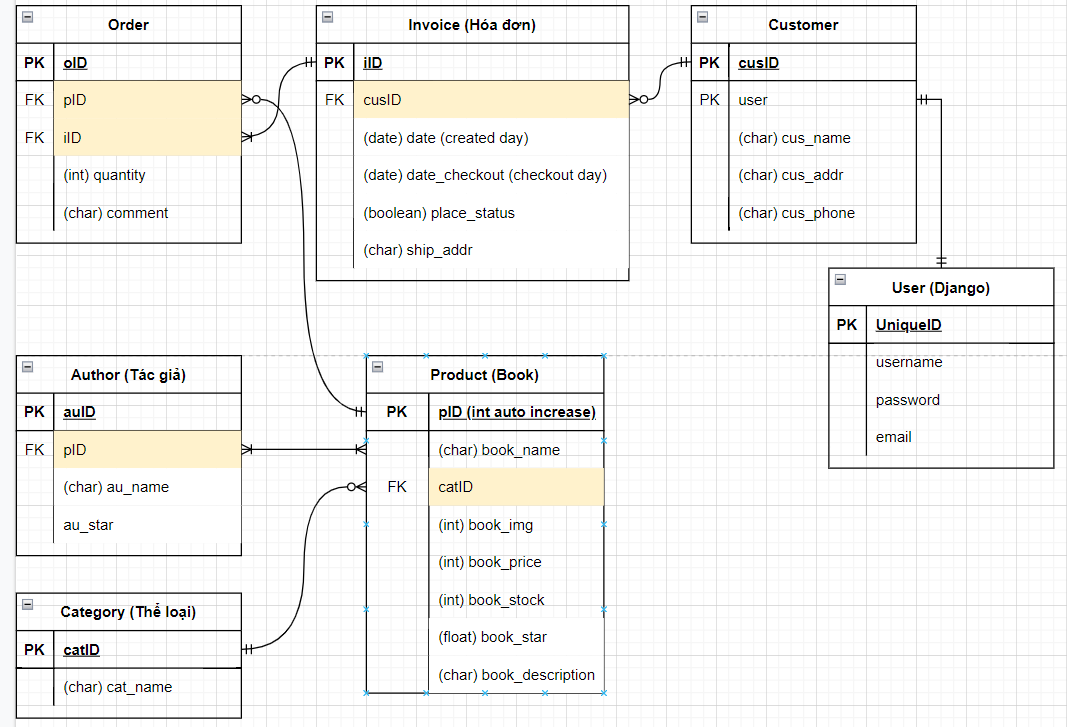
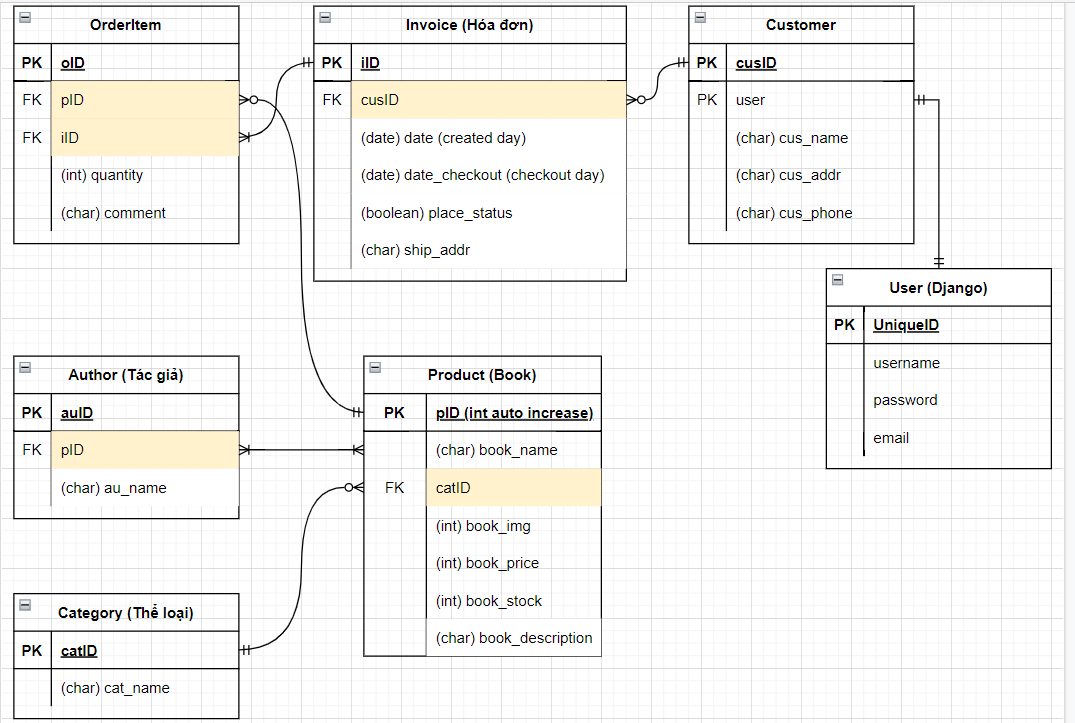
update name models
Order -> OrderItem

diff --git a/cntt_project/store/views.py b/cntt_project/store/views.py
@@ -97,7 +97,7 @@ def product_detail_view(request, pID):
         # when user not login
         invoice = {'get_total_item': 0, 'get_total_price': 0}
 
-    orders = Order.objects.filter(pID=pID)
+    orders = OrderItem.objects.filter(pID=pID)
     p = Product.objects.get(pID=pID)
     context = {'p': p, 'invoice': invoice, 'orders': orders}
     return render(request, 'home/product/product_detail.html', context)
@@ -170,7 +170,7 @@ def cart(request):
         customer = request.user.customer
         invoice, created = Invoice.objects.get_or_create(
             cusID=customer, place_status=False)
-        orders = invoice.order_set.all()
+        orders = invoice.orderitem_set.all()
     else:
         # when user not login
         invoice = {'get_total_item': 0, 'get_total_price': 0}
@@ -190,14 +190,14 @@ def add_to_cart(request):
             product = Product.objects.get(pID=pID)
             invoice, created = Invoice.objects.get_or_create(
                 cusID=customer, place_status=False)
-            order, created = Order.objects.get_or_create(
+            order, created = OrderItem.objects.get_or_create(
                 iID=invoice, pID=product)
 
             if order.quantity < product.book_stock:
                 order.quantity = order.quantity + int(add_quantity)
                 order.save()
 
-            orders = invoice.order_set.all()
+            orders = invoice.orderitem_set.all()
             context = {'orders': orders, 'invoice': invoice}
             return redirect('store:home')
             return render(request, 'home/cart/cart.html', context)
@@ -215,7 +215,7 @@ def updateItem(request):
 
     invoice, created = Invoice.objects.get_or_create(
         cusID=customer, place_status=False)
-    orderItem, created = Order.objects.get_or_create(iID=invoice, pID=product)
+    orderItem, created = OrderItem.objects.get_or_create(iID=invoice, pID=product)
 
     if (product.book_stock == 0):
         messages.error(request, "Sách bạn chọn hiện tại đã hết hàng!")
@@ -240,7 +240,7 @@ def checkout(request):
         customer = request.user.customer
         invoice, created = Invoice.objects.get_or_create(
             cusID=customer, place_status=False)
-        orders = invoice.order_set.all()
+        orders = invoice.orderitem_set.all()
     else:
         # when user not login
         invoice = {'get_total_item': 0, 'get_total_price': 0}
@@ -270,7 +270,7 @@ def checkout_info_view(request):
     if request.user.is_authenticated:
         customer = request.user.customer
         invoice = Invoice.objects.filter(cusID=customer, place_status=True)
-        #orders = invoice.order_set.all()
+        #orders = invoice.orderitem_set.all()
     else:
         # when user not login
         invoice = {'get_total_item': 0, 'get_total_price': 0}
@@ -281,7 +281,7 @@ def checkout_info_view(request):
 
 def view_checkout_detail(request, iID):
     invoice = Invoice.objects.get(iID=iID)
-    orders = invoice.order_set.all()
+    orders = invoice.orderitem_set.all()
     context = {'invoice': invoice, 'orders': orders, }
     return render(request, 'home/checkout/checkout_detail.html', context)
 
@@ -289,12 +289,12 @@ def view_checkout_detail(request, iID):
 def order_comment(request, oID):
     if request.method == 'POST':
         try:
-            order = Order.objects.get(oID=oID)
+            order = OrderItem.objects.get(oID=oID)
             order.comment = request.POST['cmt']
             order.save()
 
             invoice = Invoice.objects.get(iID=order.iID.iID)
-            orders = invoice.order_set.all()
+            orders = invoice.orderitem_set.all()
             context = {'invoice': invoice, 'orders': orders, }
             return render(request, 'home/checkout/checkout_detail.html', context)
         except:
@@ -312,7 +312,7 @@ def comment(request):
     print('action: ', action)
     print('oID: ', oID)
 
-    order = Order.objects.get(oID=oID)
+    order = OrderItem.objects.get(oID=oID)
     order.comment = text
     order.save()
 
@@ -378,7 +378,7 @@ return JsonResponse('Đã đặt hàng', safe=False)
 if request.user.is_authenticated:
     customer = request.user.customer
     invoice = Invoice.objects.get(cusID=customer)
-    orders = invoice.order_set.all()
+    orders = invoice.orderitem_set.all()
     print('yeye: ',invoice.iID)
 else:
     # when user not login

diff --git a/cntt_project/store/models.py b/cntt_project/store/models.py
@@ -18,13 +18,12 @@ class Category(models.Model):
 
 class Product(models.Model):
     pID = models.AutoField(primary_key=True)
-    book_name = models.CharField(max_length=50)
+    book_name = models.CharField(max_length=100)
     catID = models.ForeignKey(Category, on_delete=models.CASCADE, null=True)
     book_img = models.ImageField(
-        upload_to='uploads/', height_field=None, width_field=None, max_length=None, null=True,  blank=True)
+        upload_to='uploads/', height_field=None, width_field=None, max_length=None, null=True, blank=True)
     book_price = models.IntegerField(default=0, null=False)
     book_stock = models.IntegerField(default=0, null=False)
-    book_star = models.FloatField(null=True)
     book_description = models.TextField(null=True)
 
     def __str__(self):
@@ -53,7 +52,6 @@ class Author(models.Model):
     auID = models.AutoField(primary_key=True)
     pID = models.ForeignKey(Product, on_delete=models.CASCADE, null=True)
     au_name = models.CharField(max_length=50)
-    au_star = models.FloatField(default=0)
 
     def __str__(self):
         return self.au_name
@@ -93,7 +91,7 @@ class Invoice(models.Model):
         null=True, default=False)  # đã đặt hàng chưa? 0: chưa đặt
     # giao chưa? 0: giao chưa đến
     status = models.BooleanField(null=True, default=False)
-    ship_addr = models.CharField(null=True, max_length=254)
+    ship_addr = models.CharField(null=True, max_length=150)
 
     def __str__(self):
         return str(self.cusID.cus_name)
@@ -111,24 +109,24 @@ class Invoice(models.Model):
 
     @property
     def get_total_item(self):
-        orders = self.order_set.all()
+        orders = self.orderitem_set.all()
         total = sum([i.quantity for i in orders])
         return total
 
     @property
     def get_total_price(self):
-        orders = self.order_set.all()
+        orders = self.orderitem_set.all()
         total = sum([i.get_total for i in orders])
         return total
 
 
-class Order(models.Model):
+class OrderItem(models.Model):
     oID = models.AutoField(primary_key=True)
     pID = models.ForeignKey(Product, on_delete=models.CASCADE, null=False)
     iID = models.ForeignKey(Invoice, on_delete=models.CASCADE, null=True)
-    quantity = models.IntegerField(null=False, default=0)
+    quantity = models.PositiveSmallIntegerField(default=0, null= True)
     # danh gia sp cua khach da mua hang
-    comment = models.TextField(null=True)
+    comment = models.TextField(null=True, max_length=254)
 
     @property
     def get_total(self):

diff --git a/cntt_project/store/migrations/0021_orderitem_alter_invoice_ship_addr_and_more.py b/cntt_project/store/migrations/0021_orderitem_alter_invoice_ship_addr_and_more.py
@@ -1,0 +1,45 @@
+# Generated by Django 4.1.3 on 2022-12-21 11:10
+
+from django.db import migrations, models
+import django.db.models.deletion
+
+
+class Migration(migrations.Migration):
+
+    dependencies = [
+        ('store', '0020_alter_order_quantity'),
+    ]
+
+    operations = [
+        migrations.CreateModel(
+            name='OrderItem',
+            fields=[
+                ('oID', models.AutoField(primary_key=True, serialize=False)),
+                ('quantity', models.PositiveSmallIntegerField(default=0, null=True)),
+                ('comment', models.TextField(max_length=254, null=True)),
+            ],
+        ),
+        migrations.AlterField(
+            model_name='invoice',
+            name='ship_addr',
+            field=models.CharField(max_length=150, null=True),
+        ),
+        migrations.AlterField(
+            model_name='product',
+            name='book_name',
+            field=models.CharField(max_length=100),
+        ),
+        migrations.DeleteModel(
+            name='Order',
+        ),
+        migrations.AddField(
+            model_name='orderitem',
+            name='iID',
+            field=models.ForeignKey(null=True, on_delete=django.db.models.deletion.CASCADE, to='store.invoice'),
+        ),
+        migrations.AddField(
+            model_name='orderitem',
+            name='pID',
+            field=models.ForeignKey(on_delete=django.db.models.deletion.CASCADE, to='store.product'),
+        ),
+    ]

diff --git a/cntt_project/store/migrations/0019_remove_author_au_star_remove_product_book_star.py b/cntt_project/store/migrations/0019_remove_author_au_star_remove_product_book_star.py
@@ -1,0 +1,21 @@
+# Generated by Django 4.1.3 on 2022-12-20 16:32
+
+from django.db import migrations
+
+
+class Migration(migrations.Migration):
+
+    dependencies = [
+        ('store', '0018_alter_customer_cus_addr_alter_customer_cus_name_and_more'),
+    ]
+
+    operations = [
+        migrations.RemoveField(
+            model_name='author',
+            name='au_star',
+        ),
+        migrations.RemoveField(
+            model_name='product',
+            name='book_star',
+        ),
+    ]

diff --git a/cntt_project/store/migrations/0020_alter_order_quantity.py b/cntt_project/store/migrations/0020_alter_order_quantity.py
@@ -1,0 +1,18 @@
+# Generated by Django 4.1.3 on 2022-12-21 10:36
+
+from django.db import migrations, models
+
+
+class Migration(migrations.Migration):
+
+    dependencies = [
+        ('store', '0019_remove_author_au_star_remove_product_book_star'),
+    ]
+
+    operations = [
+        migrations.AlterField(
+            model_name='order',
+            name='quantity',
+            field=models.PositiveSmallIntegerField(default=0, null=True),
+        ),
+    ]

diff --git a/cntt_project/store/admin.py b/cntt_project/store/admin.py
@@ -18,6 +18,6 @@ class CateAdmin(admin.ModelAdmin):
 admin.site.register(Author)
 admin.site.register(Category, CateAdmin)
 admin.site.register(Product, ProductAdmin)
-admin.site.register(Order, OrderAdmin)
+admin.site.register(OrderItem, OrderAdmin)
 admin.site.register(Invoice)
 admin.site.register(Customer)
